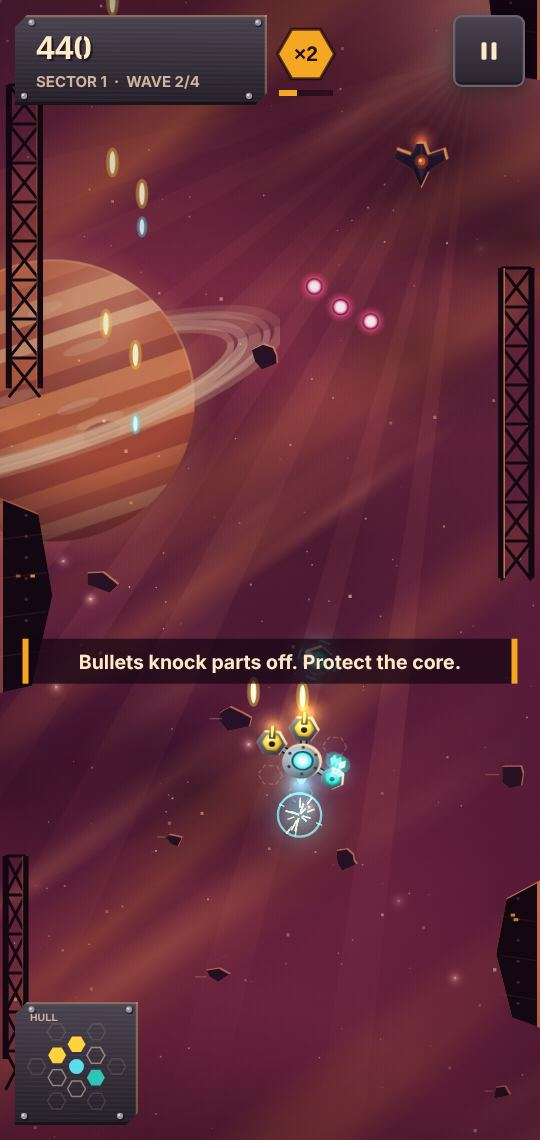
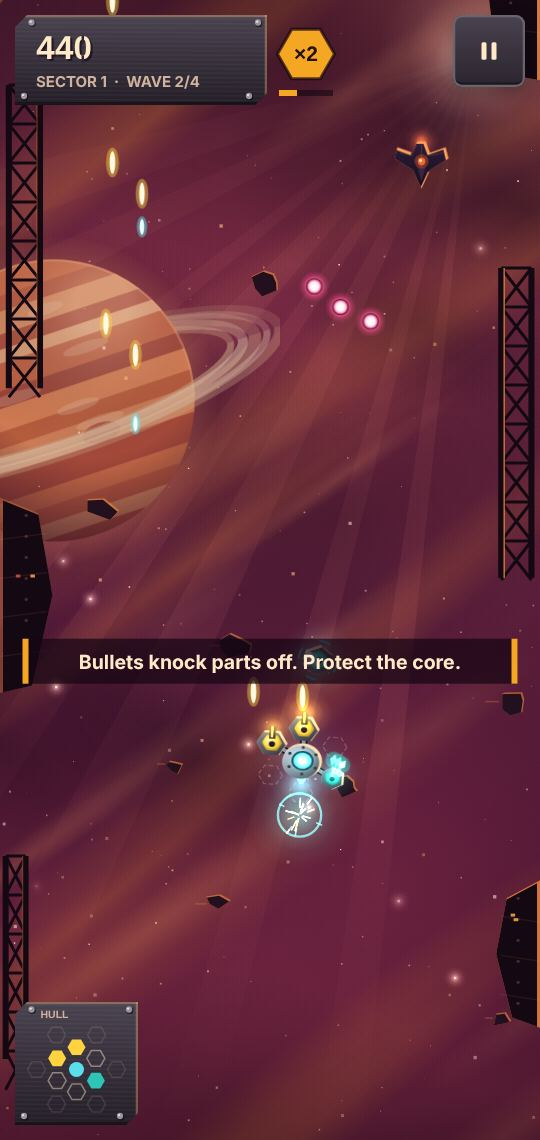
Add Scrapwing, the first catalogue game
Scrapwing (Action, space): a vertical shooter where your ship is a reactor
core with hex sockets. Wrecked raiders drop parts that bolt on where you
catch them, three of a kind fuse into a tier-2 module, and bullets knock
parts off. Seeded bosses, a new enemy type each sector, and the run is
saved at each sector start. It is first in the featured carousel and
joins "One more run".

It passed an independent playtest (fun 7, visual 8, juice 8, clarity 7)
after a fix pass for its one major finding (slow motion leaking into the
next run) and all minor ones; game-check passes 18 of 18 at 60 fps.

Also:
- bundle.cjs checked for stray kit references after inlining, so the
  kit's own comment failed every kit game; it now checks first.
- home-test and discover-test derived nothing from a 4-game catalogue
  only by accident; their group expectations now come from the registry
  (tags, genres, controls, collections) so new games do not break them.

Claude-Session: https://claude.ai/code/session_019z41fSQpv4wske49kBe2yE

diff --git a/games/scrapwing/index.html b/games/scrapwing/index.html
@@ -474,7 +474,7 @@ body { height: 100%; margin: 0; overflow: hidden; overscroll-behavior: none; bac
 
   /* ================================================================ background layers */
   const farStars = gfx.starfield({ count: 90, seed: 4, layers: 3, size: [0.5, 1.7], color: '#ffe3cc' });
-  let nebula = null, dust = null, fore = null;
+  let dust = null, fore = null;
   function blobW(g, h, x, y, rad, col, a, sx, sy, rot) {
     for (const yy of [y - h, y, y + h]) {
       if (yy + rad * Math.max(sx, sy) < 0 || yy - rad * Math.max(sx, sy) > h) continue;
@@ -569,8 +569,9 @@ body { height: 100%; margin: 0; overflow: hidden; overscroll-behavior: none; bac
     }
   }
   function buildLayers() {
-    nebula = gfx.layers([{ axis: 'y', depth: 0.1, paint: paintNebula }]);
-    dust = gfx.layers([{ axis: 'y', depth: 0.3, paint: paintDust(11, false) }, { axis: 'y', depth: 0.8, paint: (g, w, h) => { paintDust(23, true)(g, w, h); paintDebris(g, w, h); } }]);
+    // Full-screen layers are pure fill cost at DPR 2: the nebula is baked into the sky canvas,
+    // and the fine and coarse dust share one mid layer.
+    dust = gfx.layers([{ axis: 'y', depth: 0.55, paint: (g, w, h) => { paintDust(11, false)(g, w, h); paintDust(23, true)(g, w, h); paintDebris(g, w, h); } }]);
     fore = gfx.layers([{ axis: 'y', depth: 2.6, tile: 900, paint: paintWrecks }]);
   }
 
@@ -663,6 +664,7 @@ body { height: 100%; margin: 0; overflow: hidden; overscroll-behavior: none; bac
     Kit.tween.clear();
     // Tween.clear() also kills any slow-motion recovery tween: always start a run at full speed.
     loop.timeScale = 1;
+    lite = false; frameEma = 16.7;
     const sector = o.sector || 1;
     G = {
       mode: o.mode || 'play', silent: !!o.silent, seed, sector, wave: 1, stage: 'wave', stageT: 0, waveT: 0, sched: [], schedI: 0,
@@ -738,7 +740,7 @@ body { height: 100%; margin: 0; overflow: hidden; overscroll-behavior: none; bac
       case 'droneV': {
         for (let i = 0; i < g.n; i++) {
           const k = i - (g.n - 1) / 2;
-          addEnemy('drone', W / 2 + k * 46, -18 - Math.abs(k) * 26, { mv: 'line', vy: 72, amp: 10, freq: 1.2, bx: W / 2 + k * 46, nofire: true, hp: 2.2 });
+          addEnemy('drone', W / 2 + k * 46, -18 - Math.abs(k) * 26, { mv: 'line', vy: 72, amp: 52, freq: 1.1, bx: W / 2 + k * 46, nofire: true, hp: 1.5 });
         }
         break;
       }
@@ -985,7 +987,7 @@ body { height: 100%; margin: 0; overflow: hidden; overscroll-behavior: none; bac
   function addScore(n) { if (G.mode === 'play') G.score += n; }
   function floatText(t, x, y, col, size) { if (G.mode !== 'play') return; fx.float(t, x, y, { color: col, size: size || 15, font: 'display', weight: 800, stroke: 'rgba(30,8,24,0.75)' }); }
   // Additive lights are pure fill cost at DPR 2: keep at most 14, dropping the oldest.
-  function addLight(x, y, r, col, life) { if (G.lights.length >= 14) G.lights.shift(); G.lights.push({ x, y, r, col, t: 0, life }); }
+  function addLight(x, y, r, col, life) { if (G.lights.length >= (lite ? 6 : 14)) G.lights.shift(); G.lights.push({ x, y, r, col, t: 0, life }); }
   // Impact frames and slow motion are motion effects: skipped for reduced motion, and only in a real run.
   function stopFor(ms) { if (G.mode === 'play' && !Kit.reducedMotion) loop.hitstop(ms); }
   function slowmo(scale, holdMs, rampMs) {
@@ -1061,7 +1063,7 @@ body { height: 100%; margin: 0; overflow: hidden; overscroll-behavior: none; bac
         let a = Math.atan2(b.vy, b.vx);
         if (b.tgt) { targetPos(b.tgt, tmp2); const want = Math.atan2(tmp2.y - b.y, tmp2.x - b.x); a += clamp(Kit.angleDiff(a, want), -6 * dt, 6 * dt); }
         b.vx = Math.cos(a) * b.spd; b.vy = Math.sin(a) * b.spd;
-        if ((b.trail = (b.trail || 0) - dt) <= 0) { b.trail = 0.03; fx.burst(b.x - b.vx * 0.02, b.y - b.vy * 0.02, { count: 1, color: ['#ffb0c8', '#ffffff'], speed: [5, 20], life: [0.15, 0.3], size: [1.5, 2.5], glow: true }); }
+        if ((b.trail = (b.trail || 0) - dt) <= 0) { b.trail = 0.03; fx.burst(b.x - b.vx * 0.02, b.y - b.vy * 0.02, { count: 1, color: ['#ffb0c8', '#ffffff'], speed: [5, 20], life: [0.15, 0.3], size: [1.5, 2.5] }); }
       }
       b.x += b.vx * dt; b.y += b.vy * dt;
       let hit = false;
@@ -1636,8 +1638,10 @@ body { height: 100%; margin: 0; overflow: hidden; overscroll-behavior: none; bac
       while (G.schedI < G.sched.length && G.sched[G.schedI].t <= G.waveT) spawnGroup(G.sched[G.schedI++]);
       const done = G.schedI >= G.sched.length;
       const alive = G.enemies.some(e => e.type !== 'mine');
-      if (done && (!alive || G.waveT > G.sched[G.sched.length - 1].t + 14)) {
-        if ((G.waveGap = (G.waveGap || 0) + dt) > 1.1) { G.waveGap = 0; startWave(G.wave + 1); }
+      // the teaching wave never drags: wave 2 follows by about 8 s even if drones are still drifting
+      const late = G.sector === 1 && G.wave === 1 ? 7 : 14;
+      if (done && (!alive || G.waveT > G.sched[G.sched.length - 1].t + late)) {
+        if ((G.waveGap = (G.waveGap || 0) + dt) > (G.sector === 1 && G.wave === 1 ? 0.5 : 1.1)) { G.waveGap = 0; startWave(G.wave + 1); }
       }
     } else if (G.stage === 'clear') {
       G.clearT += dt;
@@ -1653,18 +1657,29 @@ body { height: 100%; margin: 0; overflow: hidden; overscroll-behavior: none; bac
   }
 
   /* ================================================================ drawing */
+  // Adaptive detail: if frames run long for a while (a slow GPU, a busy boss fight), drop the purely
+  // decorative glows (engine flares, module halos, small muzzle lights). Threat cues always draw.
+  let lite = false, frameEma = 16.7, lastFrame = 0;
+  function glow(c, x, y, r, col, a) { if (!lite) gfx.light(c, x, y, r, col, a); }
   function draw() {
     const w = view.w, h = view.h;
+    const now = performance.now(), fd = now - lastFrame;
+    lastFrame = now;
+    if (fd > 4 && fd < 100) {
+      frameEma += (fd - frameEma) * 0.03;
+      if (!lite && frameEma > 21) lite = true;
+      else if (lite && frameEma < 12) lite = false; // a fast (120 Hz) display recovers full detail
+    }
     if (!G) { view.clear(C.void); return; }
     const t = G.t, si = (G.sector - 1) % 8;
-    if (si !== palSi) { palSi = si; nebula.invalidate(); dust.invalidate(); fore.invalidate(); }
-    view.clear();
+    if (si !== palSi) { palSi = si; dust.invalidate(); fore.invalidate(); }
+    // the opaque sky covers the whole canvas, so it doubles as the clear
+    ctx.setTransform(view.dpr, 0, 0, view.dpr, 0, 0); ctx.globalAlpha = 1; ctx.globalCompositeOperation = 'source-over';
     ctx.drawImage(skyCanvas(si, w, h), 0, 0, w, h);
     const sc = G.scroll * zoom;
     farStars.draw(ctx, w, h, t, 0, -sc * 0.2);
     // the low amber star breathes a little
     gfx.light(ctx, w * 0.88, h * 0.05, 70 + 6 * Math.sin(t * 1.3), '#ffe2b0', 0.5);
-    nebula.draw(ctx, w, h, 0, -sc);
     drawGiant(w, h, t);
     dust.draw(ctx, w, h, 0, -sc);
     // a wash of the sector's tint over the gas
@@ -1691,7 +1706,6 @@ body { height: 100%; margin: 0; overflow: hidden; overscroll-behavior: none; bac
     cam.restore(ctx);
 
     if (G.mode === 'attract') drawTitleScrim(w, h);
-    gfx.vignette(ctx, 0.5, '#12030f');
     drawHud(w, h, t);
   }
   // Sky gradient, the amber star's glow and its rays, baked once per sector and size: one cheap blit a frame.
@@ -1727,6 +1741,10 @@ body { height: 100%; margin: 0; overflow: hidden; overscroll-behavior: none; bac
       g.beginPath(); g.moveTo(sx, sy); g.lineTo(sx + Math.cos(a - wd) * len, sy + Math.sin(a - wd) * len); g.lineTo(sx + Math.cos(a + wd) * len, sy + Math.sin(a + wd) * len); g.closePath(); g.fill();
     }
     g.globalCompositeOperation = 'source-over';
+    // the nebula gas sits over the star's rays, as it always did when it was a separate layer
+    paintNebula(g, w, h);
+    // the vignette is baked in too (the wrecks and ships over it are dark at the edges anyway)
+    gfx.vignette(g, 0.5, '#12030f');
     return skyC;
   }
   function drawGiant(w, h, t) {
@@ -1802,8 +1820,8 @@ body { height: 100%; margin: 0; overflow: hidden; overscroll-behavior: none; bac
     if (e.type !== 'mine' && e.type !== 'pylon') {
       const fl = 0.7 + 0.3 * Math.sin(t * 30 + e.ph);
       const ey = e.y - spr.h * 0.42 * sc;
-      gfx.light(ctx, e.x, ey, (e.type === 'carrier' ? 26 : 13) * fl, C.ember, 0.75);
-      if (e.type === 'carrier') { gfx.light(ctx, e.x - 26, ey + 4, 14 * fl, C.ember, 0.7); gfx.light(ctx, e.x + 26, ey + 4, 14 * fl, C.ember, 0.7); }
+      glow(ctx, e.x, ey, (e.type === 'carrier' ? 26 : 13) * fl, C.ember, 0.75);
+      if (e.type === 'carrier') { glow(ctx, e.x - 26, ey + 4, 14 * fl, C.ember, 0.7); glow(ctx, e.x + 26, ey + 4, 14 * fl, C.ember, 0.7); }
     }
     if (e.elite) gfx.light(ctx, e.x, e.y, e.r * 2.6, C.gold, 0.35 + 0.15 * Math.sin(t * 6));
     if (e.type === 'mine') {
@@ -1835,7 +1853,7 @@ body { height: 100%; margin: 0; overflow: hidden; overscroll-behavior: none; bac
     const spr = bossSprite(B);
     const k = B.dying ? Math.max(0, 1 - (B.dying - 1.2) / 0.7) : 1;
     // engines
-    for (const ex of [-0.28, 0, 0.28]) gfx.light(ctx, B.x + ex * B.BW, B.y - B.BH * 0.48, 30 + 6 * Math.sin(t * 25 + ex * 9), C.ember, 0.8 * k);
+    for (const ex of [-0.28, 0, 0.28]) glow(ctx, B.x + ex * B.BW, B.y - B.BH * 0.48, 30 + 6 * Math.sin(t * 25 + ex * 9), C.ember, 0.8 * k);
     ctx.globalAlpha = k;
     ctx.drawImage(spr, B.x - spr.w / 2, B.y - spr.h / 2, spr.w, spr.h);
     const pod = podSprite();
@@ -1922,7 +1940,7 @@ body { height: 100%; margin: 0; overflow: hidden; overscroll-behavior: none; bac
     gfx.light(ctx, 0, 18, 22 * fl, C.reactor, 0.7);
     ctx.fillStyle = gfx.alpha('#b8fbff', 0.85);
     ctx.beginPath(); ctx.moveTo(-4, 11); ctx.quadraticCurveTo(0, 26 * fl, 4, 11); ctx.closePath(); ctx.fill();
-    gfx.light(ctx, 0, 0, 46, C.reactor, 0.22);
+    glow(ctx, 0, 0, 46, C.reactor, 0.22);
     // struts from the core to each fitted socket
     ctx.lineCap = 'round';
     for (let i = 0; i < 12; i++) {
@@ -1951,7 +1969,7 @@ body { height: 100%; margin: 0; overflow: hidden; overscroll-behavior: none; bac
       if (!m || m.tier !== tier) continue;
       const sk = SOCK[i];
       if (tier === 2) {
-        gfx.light(ctx, sk.x, sk.y, 38 + 5 * Math.sin(t * 6 + i), TCOL[m.type], 0.85);
+        gfx.light(ctx, sk.x, sk.y, (lite ? 26 : 38) + 5 * Math.sin(t * 6 + i), TCOL[m.type], 0.85);
         ctx.strokeStyle = gfx.alpha(TCOL[m.type], 0.55 + 0.3 * Math.sin(t * 6 + i)); ctx.lineWidth = 1.4;
         ctx.beginPath(); ctx.arc(sk.x, sk.y, 17, t * 3 + i, t * 3 + i + 1.6); ctx.stroke();
         ctx.beginPath(); ctx.arc(sk.x, sk.y, 17, t * 3 + i + PI, t * 3 + i + PI + 1.6); ctx.stroke();
@@ -1964,7 +1982,7 @@ body { height: 100%; margin: 0; overflow: hidden; overscroll-behavior: none; bac
         if (m.hp <= (tier === 2 ? 2 : 1)) { ctx.moveTo(sk.x + 5, sk.y - 5); ctx.lineTo(sk.x + 1, sk.y); }
         ctx.stroke();
       }
-      if (m.flash > 0.05 && m.type !== 'plate' && (tier === 2 || nMods <= 6)) gfx.light(ctx, sk.x, sk.y - (m.type === 'blaster' ? 12 : 4), 10 + 8 * m.flash, TCOL[m.type], m.flash * 0.8);
+      if (m.flash > 0.05 && m.type !== 'plate' && (tier === 2 || nMods <= 6)) glow(ctx, sk.x, sk.y - (m.type === 'blaster' ? 12 : 4), 10 + 8 * m.flash, TCOL[m.type], m.flash * 0.8);
       if (m.hitT > 0) gfx.light(ctx, sk.x, sk.y, 20, '#ffffff', m.hitT * 3);
     }
     // fusing parts slide together
@@ -2140,7 +2158,7 @@ body { height: 100%; margin: 0; overflow: hidden; overscroll-behavior: none; bac
       ctx.restore();
     }
     ctx.font = '800 7px ' + HUDF; ctx.textAlign = 'left'; ctx.fillStyle = '#d0b29f'; ctx.textBaseline = 'middle';
-    ctx.fillText('HULL', x + 9, y + 8.5);
+    ctx.fillText('HULL', x + 17, y + 9);
   }
 
   /* ================================================================ loop, input, shell */

diff --git a/games/registry.js b/games/registry.js
@@ -24,6 +24,25 @@ window.KILN_CATEGORIES = [
  * true of the game as it plays now. Discover shows them on result rows and search matches them. */
 window.KILN_GAMES = [
   {
+    id: 'scrapwing',
+    title: 'Scrapwing',
+    pitch: 'Shoot down raiders and bolt their guns onto your hull. Lose them and you fly bare.',
+    genre: 'Action',
+    mechanics: ['Shooting', 'Ship building', 'Dodging'],
+    moods: ['Intense', 'Fast'],
+    accent: '--g4',
+    status: 'beta',
+    path: 'games/scrapwing/index.html',
+    added: '2026-10-11',
+    featured: true,
+    artWide: 'games/scrapwing/art-wide.jpg',
+    artTall: 'games/scrapwing/art-tall.jpg',
+    shots: ['games/scrapwing/shot-1.jpg', 'games/scrapwing/shot-2.jpg'],
+    about: 'A vertical shooter where your ship is a reactor core with hex sockets: wrecked raiders drop Blasters, Fans, Seekers and armour Plates that bolt on where you catch them, and three of a kind side by side fuse into a glowing tier-2 module. Enemy bullets knock parts off (catch them again within two seconds), and a hit on the core ends the run. Every sector flies through a new stretch of nebula, adds a new enemy type and ends in a seeded boss whose pods drop tier-2 parts; the run is saved at each sector start.',
+    controls: 'Touch or keyboard',
+    saves: 'run',
+  },
+  {
     id: 'tessera',
     title: 'Tessera',
     pitch: 'Lay glazed tiles on the grid. Fill a row or column to clear it.',
@@ -119,7 +138,7 @@ window.KILN_COLLECTIONS = [
     id: 'one-more-run',
     title: 'One more run',
     why: 'Fast arcade runs. When one ends, go again in a tap.',
-    games: ['goldmend', 'lariat'],
+    games: ['goldmend', 'lariat', 'scrapwing'],
   },
   {
     id: 'think-it-through',

diff --git a/docs/HANDOFF.md b/docs/HANDOFF.md
@@ -37,7 +37,7 @@ Every push to `main` (or a `claude/*` branch) also publishes
 | Work | State |
 | --- | --- |
 | Foundation: mockup Home, six categories, game kit, game checker, 60-game plan | Done, merged in #10 |
-| Batch 1: Scrapwing, Pipistrelle, Tinplate GP, Napwalk, Long Ball Night, Night Bloom | In progress: Scrapwing and Pipistrelle built and in playtest (each ships as soon as it passes); Tinplate GP part-built; the other three not started |
+| Batch 1: Scrapwing, Pipistrelle, Tinplate GP, Napwalk, Long Ball Night, Night Bloom | In progress: Scrapwing shipped; Pipistrelle in its fix pass; Tinplate GP part-built; the other three not started. Games ship one by one as they pass playtest |
 | Visual overhaul of Tessera, Goldmend, Lariat, Crosswake | Not started (after batch 1) |
 | Batches 2 to 10 | Not started; line-ups in `docs/CATALOGUE.md` |
 
